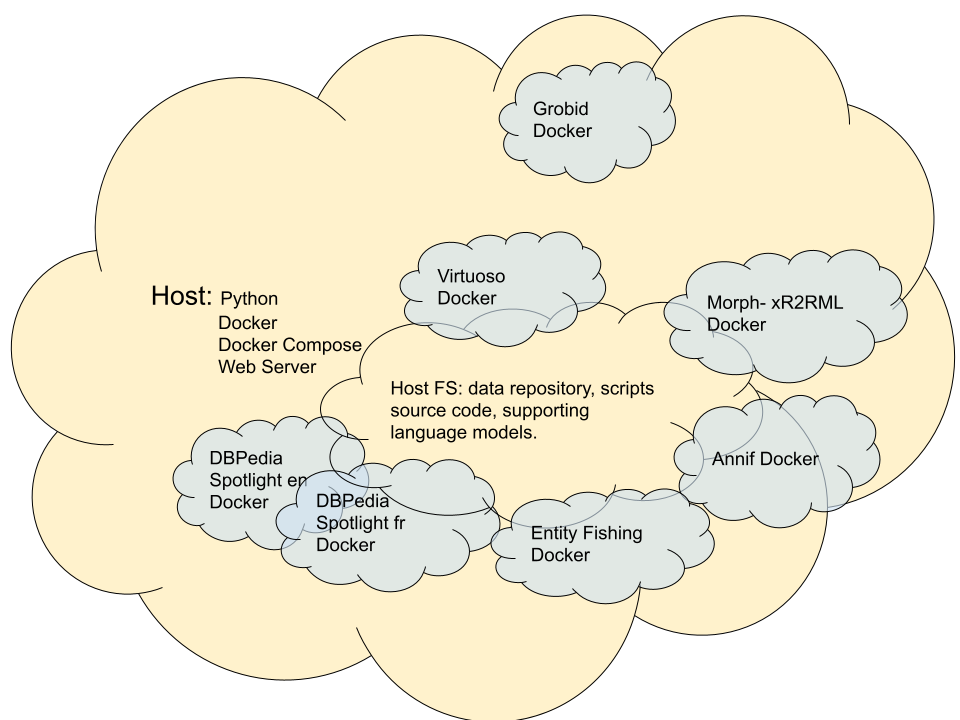
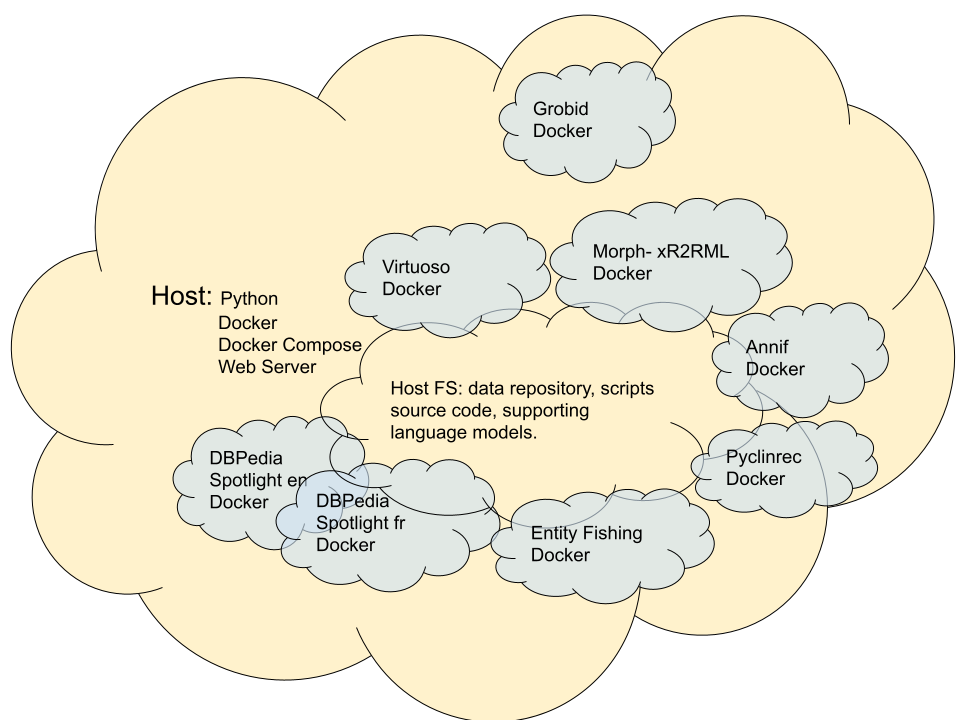
Updated documentation

Changed region(s): [[0.3438, 0.275, 0.9688, 0.7333], [0.875, 0.6417, 0.9062, 0.7028]]

diff --git a/environment/containers/pyclinrec/README.md b/environment/containers/pyclinrec/README.md
@@ -1,0 +1,129 @@
+## Pyclinrec Docker Image and Container
+
+We build a Docker image to create the execution environment for the [Python Concept Recognition Library](https://github.com/twktheainur/pyclinrec) and access the functionality through a [Flask web framework](https://flask.palletsprojects.com/en/3.0.x/)  application to imitate the annotation API of other annotation Dockers, e.g. `dbpedia-spotlight` or `entity-fishing`.
+
+>:point_right: we forked the library from its original repository for consistency reasons. The forked repository is located [here](https://github.com/issa-project/pyclinrec). The original repository is located [here](https://github.com/twktheainur/pyclinrec).
+
+### Build the Docker image
+
+To build the image and initialize pyclinrec container invoke [install-pyclinrec.sh](install-pyclinrec.sh) script. in this script the image is built based on the [Dockerfile](Dockerfile).
+
+At this stage the `pyclinrec` library package is installed in the image, spaCy language models are downloaded (that takes some time), and the Flask application is copied to the container.
+
+### Create the Docker container and initialize the annotators
+
+By invoking [run-pyclinrec.sh](run-pyclinrec.sh) create the `pyclinrec` Docker container and initialize the annotators by calling the Web API.
+
+The script creates the container based on the Docker image created in the previous step and runs the container in the background. The container is named `pyclinrec` and the `port 5000` is exposed to the host machine.
+
+The script then calls the Web API to initialize the annotators. The annotators are cached in the `/app/cache` directory on the container.
+
+:point_right: It's important to map the host directory to the `/app/cache` volume to persist large objects that take a long time to create.
+
+:point_right: The SKOS thesaurus has to be in place and its endpoint available at this point to successfully create the concept annotator.
+
+:point_right: The script can be run multiple times to initialize different annotators.
+
+
+### Pyclinrec Web API
+
+Flask application is located in the [app.py](app.py) file. The application exposes the following endpoints:
+
+- http://localhost:5002/ : This GET request returns a welcome message and instructions on how to use the application.
+
+    Usage example:
+    ```bash
+    curl http://localhost:5002/
+    ```
+    Response:
+    ```html
+    Welcome to the Pyclinrec API! .....
+    ```
+
+- http://localhost:5002/add_annotator: This endpoint receives a POST request to create a flat dictionary from a SKOS thesaurus and based on this dictionary creates a [Concept Annotator]() object that is subsequently cached in the `/app/cache` directory on the container. The request body contains parameters:
+
+    - name - the name of the dictionary
+    - lang - the language of the dictionary
+    - endpoint - the URL of the SPARQL endpoint of the thesaurus
+    - graph - (optional, default: no specific named graph) the name of the named graph in the endpoint containing the thesaurus
+    - skosXL  - (optional, default: False) a boolean value indicating whether the thesaurus labels represented as [SKOS-XL](https://www.w3.org/TR/skos-reference/skos-xl.html) or [SKOS](https://www.w3.org/TR/skos-reference/)
+
+    The response is a JSON object with the following fields:
+
+    - result - an integer value indicating whether the annotator was created successfully (1) or not (0)
+    - error - a string containing an error message if the annotator was not created successfully
+
+    Usage example:
+    ```bash
+    curl -X POST http://localhost:5002/add_annotator \
+    --data-urlencode "name=agrovoc" \
+    --data-urlencode "lang=en" \
+    --data-urlencode "endpoint=http://data-issa.cirad.fr/sparql" \
+    --data-urlencode "graph=http://aims.fao.org/aos/agrovoc" \
+    --data-urlencode "skosXL=True" \
+    -H "Accept: application/json"
+    ```
+    Response example:
+    ```
+    {"result":1,"error":""}
+    ```
+
+-  http://localhost:5002/annotate_text/{dictionary}/{lang}/{text} : This GET request receives a dictionary name, a language, and a text as parameters in the URL. It returns the annotated text with concepts from the specified dictionary. This endpoint is used mainly for verification purposes and annotating short text.
+    
+    Usage example:
+    ```
+    curl http://localhost:5002/annotate_text/agrovoc/en/Growing%20bananas%20in%20Ireland/
+    ```
+
+    Response example:
+    ```json
+    { "text": "Growing bananas in Ireland", 
+      "concepts": [
+                  {"concept_id": "http://aims.fao.org/aos/agrovoc/c_3948", "start": 19, "end": 26, "matched_text": "Ireland", "confidence_score": 1}, 
+                  {"concept_id": "http://aims.fao.org/aos/agrovoc/c_806", "start": 8, "end": 15, "matched_text": "bananas", "confidence_score": 1}
+                  ]
+    }
+    ```
+
+- http://localhost:5002/annotate: This endpoint receives a POST request with the parameters in the request body listed below. This request is intended for annotating long texts.
+
+     - text - the text to be annotated
+    - dictionary - the name of the dictionary to be used for annotation
+    - lang - the language of the text
+    - conf - (optional, default: 0.15, for future use) the confidence score threshold for the concepts to be returned
+
+It returns the JSON object with the annotated text with concepts from the specified dictionary:
+
+- text - annotated text
+- concepts - a list of concepts with the following fields:
+    - concept_id - the URI of the concept
+    - start - the start position of the matched text in the text
+    - end - the end position of the matched text in the text
+    - matched_text - the matched text
+    - confidence_score - the confidence score of the match
+
+Usage example:
+```bash
+curl -X POST http://localhost:5002/annotate \
+--data-urlencode "text=Cultiver des bananes en Irlande" \
+--data-urlencode "dictionary=agrovoc" \
+--data-urlencode "lang=fr" \
+--data-urlencode "conf=0.15" \
+-H "Accept: application/json"
+```
+
+Response example:
+```json
+{
+    "text": "Cultiver des bananes en Irlande", 
+    "concepts": [
+                {"concept_id": "http://aims.fao.org/aos/agrovoc/c_3948", "start": 24, "end": 31, "matched_text": "Irlande", "confidence_score": 1}
+                ]
+}
+``` 
+
+### ConceptAnnotator module
+
+The application uses the [ConceptAnnotator module](ConceptAnnotator.py) to generate concept dictionaries and annotate texts. The dictionaries and annotators are stored in global variables and can be loaded from cache `/app/cache` or generated as needed. See the module documentation for details. 
+
+The basis for the module is the [pyclinrec library example](https://github.com/twktheainur/pyclinrec/tree/master/example_applications/agrovoc)

diff --git a/environment/containers/README.md b/environment/containers/README.md
@@ -1,6 +1,6 @@
 # Docker containers
 
-Almost all of the tools used in the ISSA pipeline are executed within a Docker container context. That provides greater portability and maintainability of the execution environment.
+All of the tools used in the ISSA pipeline are executed within a Docker container context. That provides greater portability and maintainability of the execution environment.
 
 ### Configuration
 
@@ -39,29 +39,6 @@ We deploy [Annif Docker Image](https://github.com/NatLibFi/Annif/wiki/Usage-with
   - ```docker exec annif annif list-projects```
  
  >:point_right: The [training](../../training) process has to be run at least once before the automated indexing is feasible.
-
-### agrovoc-pyclinrec
-
-The `agrovoc-pyclinrec` container runs the text annotation service to annotate text in English or French with concepts from the [Agrovoc Multilingual Thesaurus](https://agrovoc.fao.org).
-
-We build a Docker image to create the execution environment for the [Python Concept Recognition Library](https://github.com/twktheainur/pyclinrec) and to create a web application similar to other annotation Dockers, e.g. `dbpedia-spotlight` and `entity-fishing`. NOTE: we forked the library for consistensy reasons). 
-
-By default, this container is created specifically for Agrovoc vocabulary but it can be reconfigured for another SKOS thesaurus by providing its SPARQL endpoint in `DICT_ENDPOINT` environment variable. If graph name filtering is required then a graph name can be passed in 'DICT_GRAPH' variable of the `docker run` command.
-
->:point_right: Concept recognition is currently available only for English and French.
-
-- to build the image and initialize pyclinrec container invoke [install-pyclinrec.sh](agrovoc-pyclinrec/install-pyclinrec.sh) script.
-
-- to run the container invoke [run-pyclinrec.sh](agrovoc-pyclinrec/run-pyclinrec.sh) script. 
-
-- to get help call ```http://localhost:5000/```
-
-- to test annotation call 
-
-  - ```curl -X POST http://localhost:5000/annotate --data-urlencode "text=Growing bananas in Ireland" --data-urlencode "lang=en" --data-urlencode "conf=0.15" -H "Accept: application/json"``` 
-  - ```curl -X POST http://localhost:5000/annotate --data-urlencode "text=Cultiver des bananes en Irlande" --data-urlencode "lang=fr" --data-urlencode "conf=0.15" -H "Accept: application/json"```
-
->:point_right: The internal vocabulary and concept indexing is taking place during the installation and it may take a long time. On our machine, the initialization takes about 10 minutes. 
 
 ### dbpedia-spotlight
 Two dbpeadia-spotlight containers are created from the [DBpedia Spotlight Docker image](https://hub.docker.com/r/dbpedia/dbpedia-spotlight) one per language `dbpedia-spotlight.en` and `dbpedia-spotlight.fr`. Each container relies on the downloaded language model. The model download is lengthy (on our machine 11 and 4 min for English and French) and is included in the installation script. The models are stored in the host FS.
@@ -119,6 +96,30 @@ The container network deployment is adapted from the [Morph-xR2RML](https://gith
 
 >:point_right: TO run the Morph-xR2RML tool the Docker Compose hast to be installed. See [Docker Compose installation](https://docs.docker.com/compose/install/).
 
+### pyclinrec
+
+The `pyclinrec` container runs the text annotation service to annotate text with concepts from a custom dictionary such as [Agrovoc Multilingual Thesaurus](https://agrovoc.fao.org) or [MeSH](https://www.nlm.nih.gov/mesh/meshhome.html).
+
+We build a Docker image to create the execution environment for the [Python Concept Recognition Library](https://github.com/twktheainur/pyclinrec) and access the functionality through a web application similar to other annotation Dockers, e.g. `dbpedia-spotlight` or `entity-fishing`.
+
+NOTE: we forked the library from its original repository for consistency reasons. The forked repository is located [here](https://github.com/issa-project/pyclinrec).
+
+- to build the image and initialize pyclinrec container invoke [install-pyclinrec.sh](pyclinrec/install-pyclinrec.sh) script.
+
+- to run the container invoke [run-pyclinrec.sh](pyclinrec/run-pyclinrec.sh) script.
+
+- to get help call `http://localhost:5002/`
+
+- to test annotation call
+
+  - ```curl -X POST http://localhost:5002/annotate --data-urlencode "text=Growing bananas in Ireland" --data-urlencode "lang=en" --data-urlencode "conf=0.15" -H "Accept: application/json"``` 
+  - ```curl -X POST http://localhost:5002/annotate --data-urlencode "text=Cultiver des bananes en Irlande" --data-urlencode "lang=fr" --data-urlencode "conf=0.15" -H "Accept: application/json"```
+
+
+>:point_right: The internal vocabulary and concept indexing is taking place during the first run of the Docker container and may take a long time. On our machine, the initialization takes about 10 minutes for Agrovoc dictionaries.
+
+More details on the container configuration and usage can be found in the [pyclinrec](pyclinrec/README.md) folder.
+
 ### virtuoso
 
 The `virtuoso` container provides storage for pipeline-generated Knowledge Graph and access to it via the SPARQL endpoint.
@@ -136,3 +137,5 @@ Before running the container for the first time it is necessary to create a dba 
 >:point_right: This container should not be stopped except for maintenance reasons.
 
 >:point_right: Each instance of ISSA knowledge graph requires a separate Virtuoso container.
+
+More details on the container configuration and usage can be found in the [virtuoso](virtuoso/README.md) folder.

diff --git a/environment/README.md b/environment/README.md
@@ -51,3 +51,7 @@ Optionally and depending on a use case some additional external datasets can be 
 To facilitate quick access to the Wikidata and DBpedia labels and hierarchical relationships between named entities for visualization applications such as [ARViz](https://github.com/Wimmics/arviz) we recreate the hierarchies for named entities in the ISSA triple store.
 
 See the [datasets](../datasets) folder for more details.
+
+## Scheduling updates
+
+The pipeline is designed to be run periodically. The update frequency depends on the use case and the data source. For the _Agritrop_ and _HAL_ use cases, we run the pipeline monthly scheduling the runs with the [cron](https://en.wikipedia.org/wiki/Cron) utility. The scheduling [file](issa.crontab) is included in this repository for demonstration purposes.

diff --git a/environment/containers/virtuoso/README.md b/environment/containers/virtuoso/README.md
@@ -11,7 +11,7 @@ To enable Faceted Browser in Virtuoso, you need to follow these steps:
 1. Open the Virtuoso Conductor web interface http://localhost:8890/conductor.
 2. Login with the credentials `dba` and the password that you have set during the Virtuoso installation.
 2. Navigate to the `System Admin/Packages` tab.
-3. Check `fct` package and click `Install/Upgrade` button.
+3. Check `fct` package and click the `Install/Upgrade` button.
 4. Restart the Virtuoso container.
 
 >:point_right: Optionally run the ISQL commands suggested in the [Virtuoso documentation](https://vos.openlinksw.com/owiki/wiki/VOS/VirtFacetBrowserInstallConfig) to speed up the Faceted Browser tasks.
